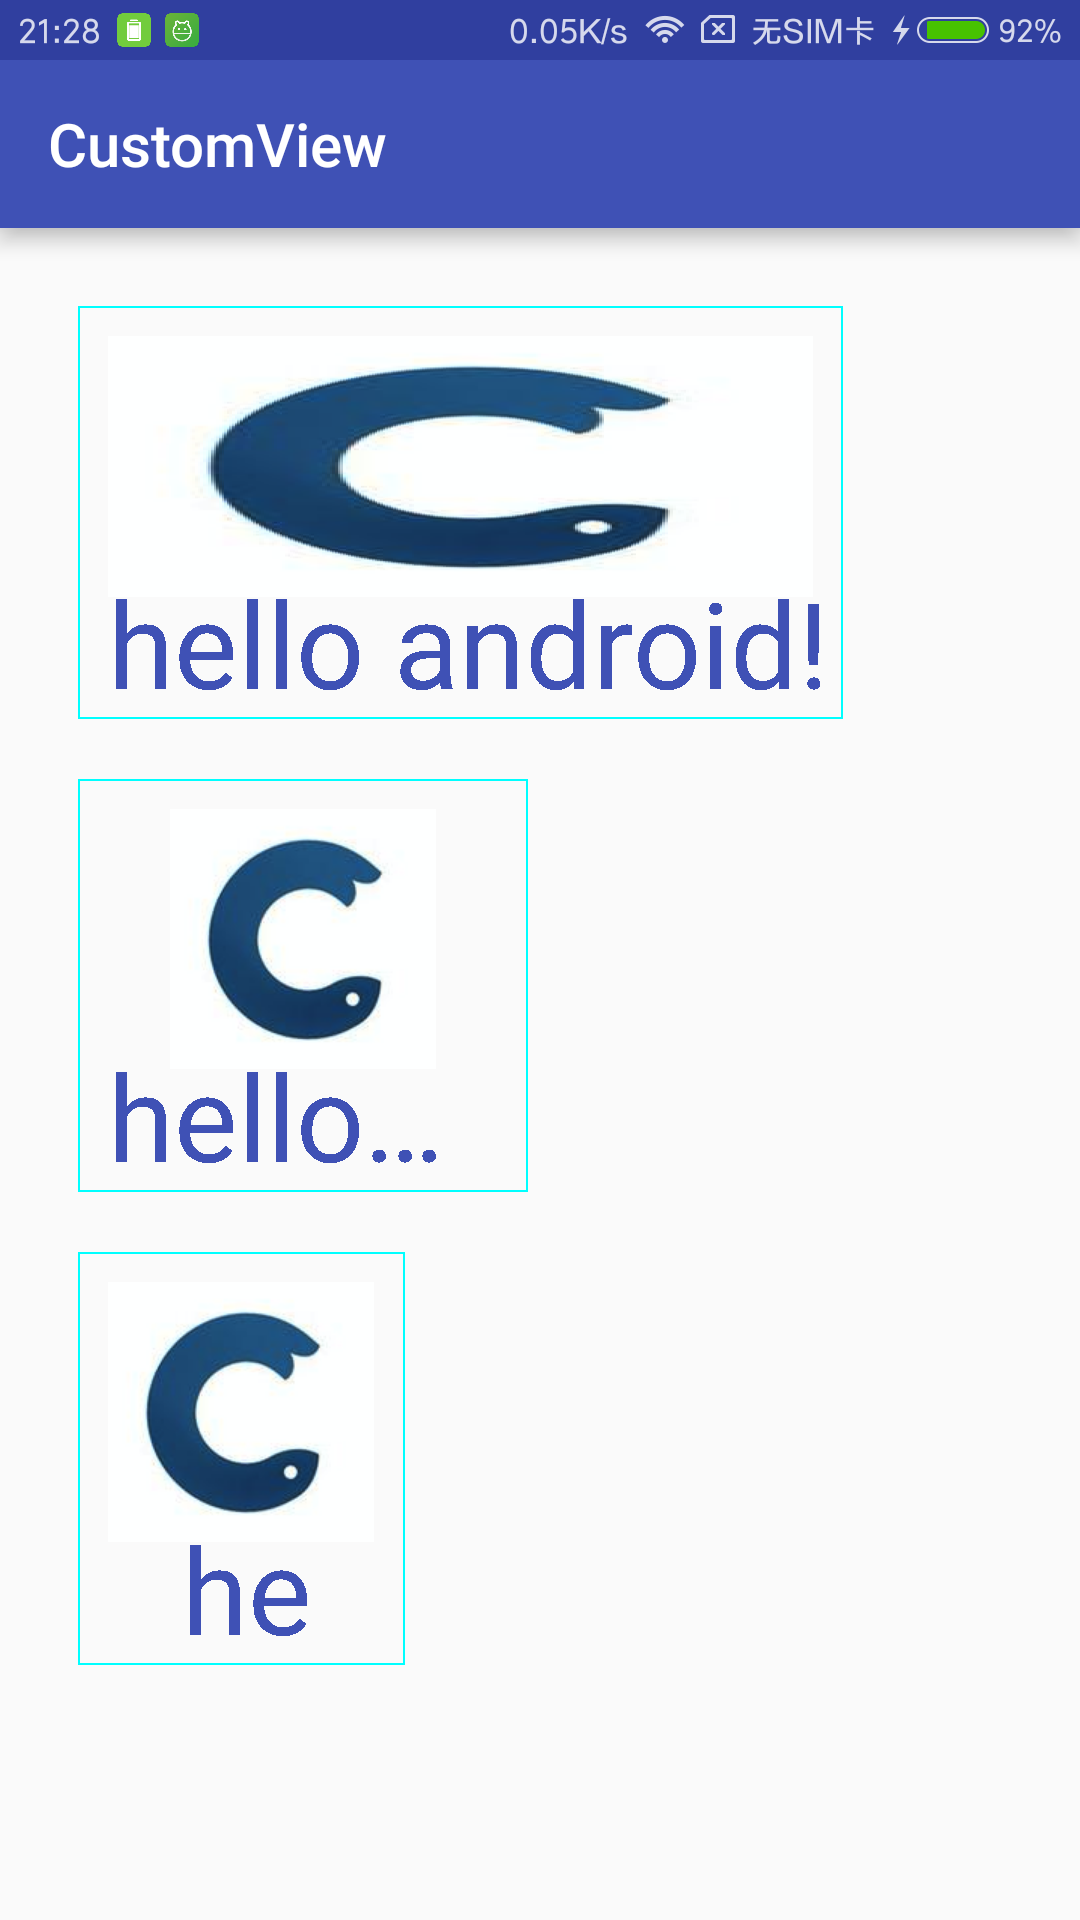
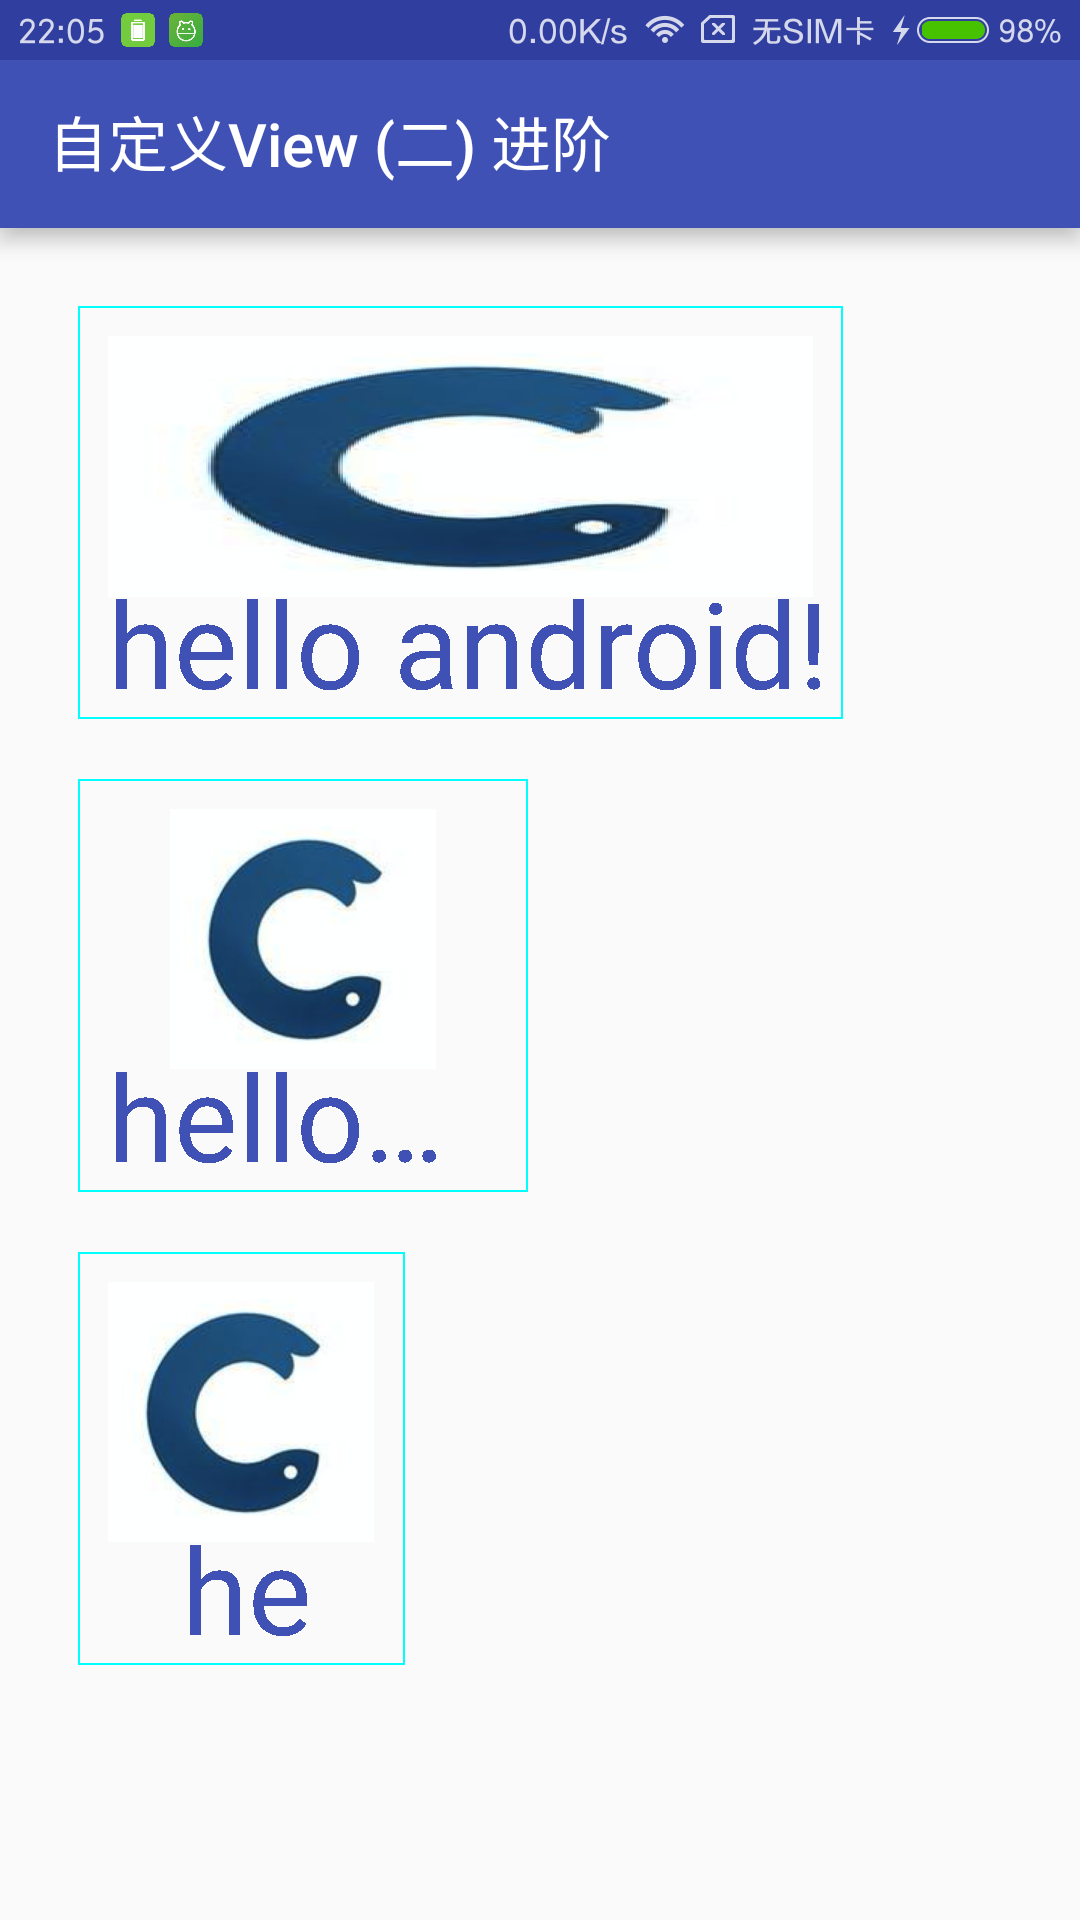
v4.2.2 增加标题和更换对应图片

Changed region(s): [[0.0306, 0.0625, 0.5806, 0.0938], [0.0306, 0.0, 0.1833, 0.0312]]

diff --git a/app/src/main/java/com/example/jingbin/customview/activity/CustomProgressBarActivity.java b/app/src/main/java/com/example/jingbin/customview/activity/CustomProgressBarActivity.java
@@ -15,7 +15,7 @@ public class CustomProgressBarActivity extends AppCompatActivity {
     protected void onCreate(Bundle savedInstanceState) {
         super.onCreate(savedInstanceState);
         setContentView(R.layout.activity_custom_progress_bar);
-
+        setTitle("自定义View (三) 圆环交替 等待效果");
         initView();
     }
 

diff --git a/app/src/main/java/com/example/jingbin/customview/activity/CustomVolumControlBarActivity.java b/app/src/main/java/com/example/jingbin/customview/activity/CustomVolumControlBarActivity.java
@@ -11,5 +11,6 @@ public class CustomVolumControlBarActivity extends AppCompatActivity {
     protected void onCreate(Bundle savedInstanceState) {
         super.onCreate(savedInstanceState);
         setContentView(R.layout.activity_custom_volum_control_bar);
+        setTitle("自定义View (四) 视频音量调控");
     }
 }

diff --git a/app/src/main/java/com/example/jingbin/customview/activity/CustomImageViewActivity.java b/app/src/main/java/com/example/jingbin/customview/activity/CustomImageViewActivity.java
@@ -11,5 +11,6 @@ public class CustomImageViewActivity extends AppCompatActivity {
     protected void onCreate(Bundle savedInstanceState) {
         super.onCreate(savedInstanceState);
         setContentView(R.layout.activity_custom_image_view);
+        setTitle("自定义View (二) 进阶");
     }
 }

diff --git a/app/src/main/java/com/example/jingbin/customview/activity/CustomTitleViewActivity.java b/app/src/main/java/com/example/jingbin/customview/activity/CustomTitleViewActivity.java
@@ -11,6 +11,6 @@ public class CustomTitleViewActivity extends AppCompatActivity {
     protected void onCreate(Bundle savedInstanceState) {
         super.onCreate(savedInstanceState);
         setContentView(R.layout.activity_custom_title_view);
-
+        setTitle("自定义View (一)");
     }
 }
